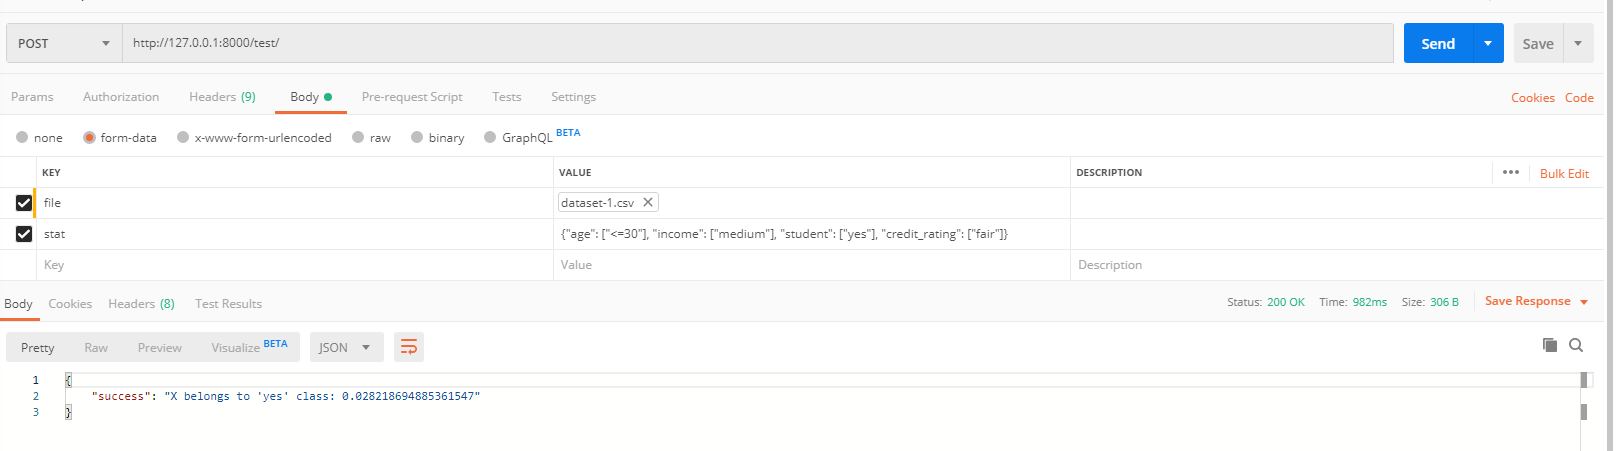
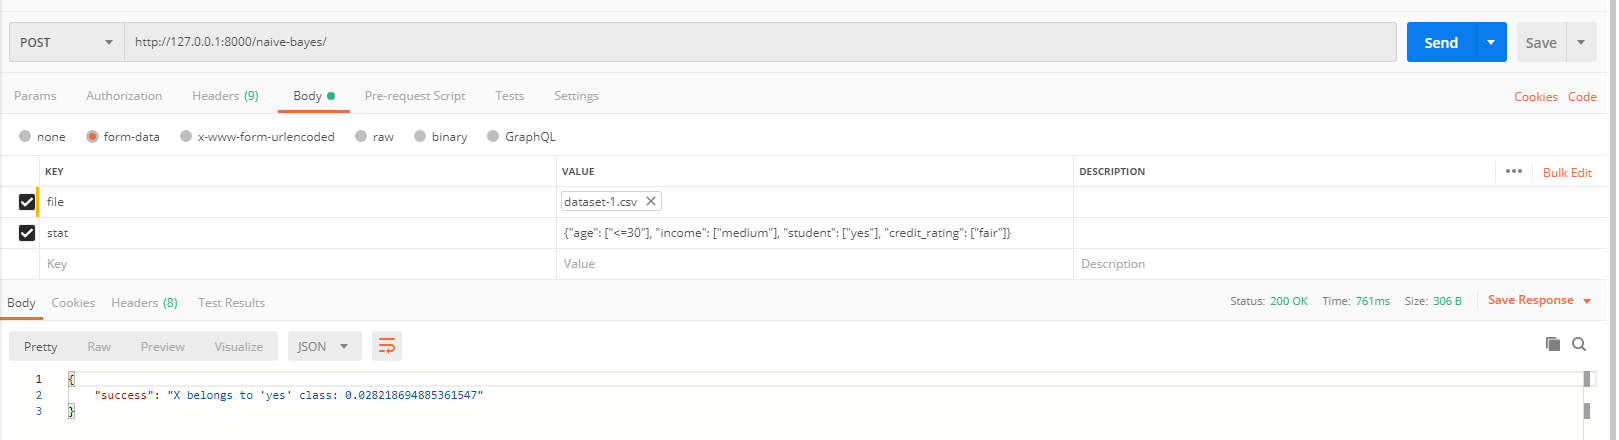
Fixed code for data types

diff --git a/src/dataminingcore/views.py b/src/dataminingcore/views.py
@@ -5,41 +5,31 @@ import numpy as np
 import operator
 import json
 
-class Test(APIView):
+class NaiveBayes(APIView):
     def post(self, request):
         csv_file = request.FILES['file']
         if not csv_file.name.endswith('.csv'):
             return Response({"failed":"12"})
-        old_data1 = [x for x in csv_file.read().decode('UTF-8').split('\n') ] 
-        old_data2=[y.split(',') for y in old_data1]
-        # print(old_data2)  
-        headers = old_data2[0]
-        data  = pd.DataFrame(old_data2[1:], columns=headers)
-        data=data.dropna() 
+        data = pd.read_csv(request.FILES.get('file'))
         print(data)
     
         column_names=[columnName for (columnName, columnData) in data.iteritems()][:-1]
         last_column_name=[columnName for (columnName, columnData) in data.iteritems()][-1]
-        print(column_names,last_column_name)
 
         stat_str = request.data['stat']
-        print(stat_str)
         stat_dict = json.loads(stat_str)
-        print(type(stat_dict))
         stat = pd.DataFrame(stat_dict) 
         print(stat)
 
         n=dict()
         for uniq in data[last_column_name].unique():
             n[uniq]=data[last_column_name][data[last_column_name] == uniq].count()
-        n
 
         total_stat = data[last_column_name].count()
 
         P=dict()
         for uniq in data[last_column_name].unique():
             P[uniq]=n[uniq]/total_stat
-        P
 
         n_counts=dict()
         P_array=dict()
@@ -51,12 +41,11 @@ class Test(APIView):
             for uniq in data[last_column_name].unique():
                 n_counts[uniq].append(data[last_column_name][((data[column_name] == stat[column_name][0]) & (data[last_column_name] == uniq))].count())
                 P_array[uniq].append(n_counts[uniq][-1]/n[uniq])
-        print(n_counts,P_array)
+        # print(n_counts,P_array)
 
         multiply_array_P=dict()
         for uniq in data[last_column_name].unique():
             multiply_array_P[uniq]=np.prod(P_array[uniq])*P[uniq]
-        multiply_array_P
 
         won=max(multiply_array_P.items(), key=operator.itemgetter(1))[0]
         print("X belongs to '"+str(won)+"' class: "+str(multiply_array_P[won])) 

diff --git a/src/dataminingcore/urls.py b/src/dataminingcore/urls.py
@@ -15,10 +15,10 @@ Including another URLconf
 """
 from django.contrib import admin
 from django.urls import path
-from .views import Test
+from .views import NaiveBayes
 
 
 urlpatterns = [
     path('admin/', admin.site.urls),
-    path('test/', Test.as_view()),
+    path('naive-bayes/', NaiveBayes.as_view()),
 ]
